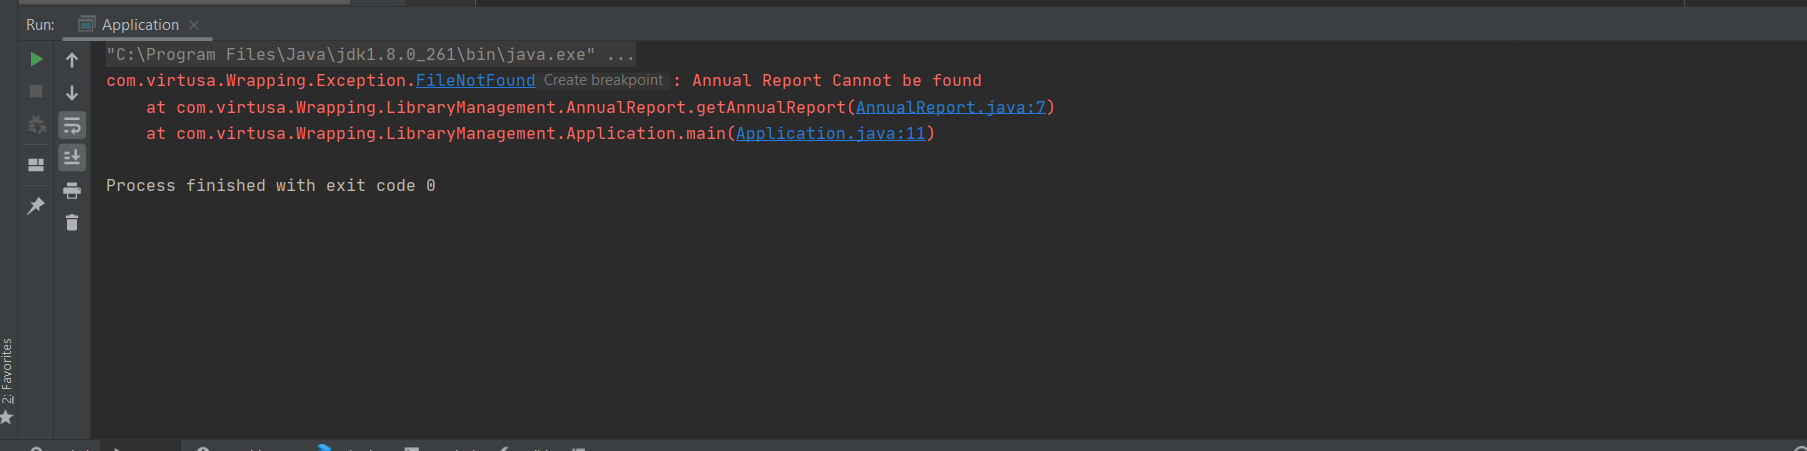
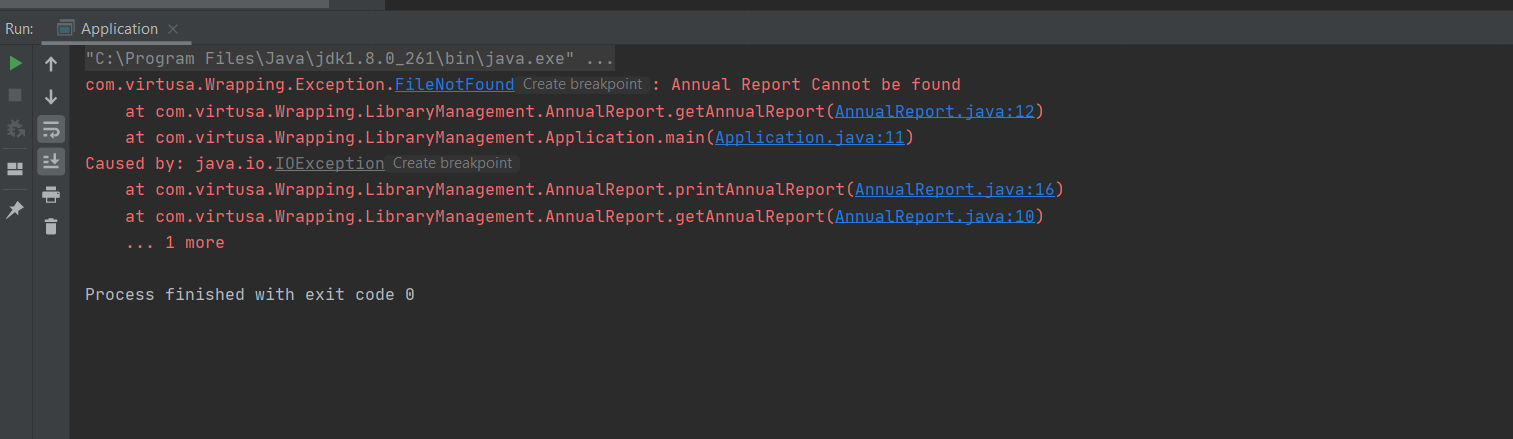
Exception Handling

diff --git a/src/com/virtusa/Wrapping/LibraryManagement/AnnualReport.java b/src/com/virtusa/Wrapping/LibraryManagement/AnnualReport.java
@@ -1,12 +1,18 @@
 package com.virtusa.Wrapping.LibraryManagement;
 import com.virtusa.Wrapping.Exception.FileNotFound;
 
+import java.io.IOException;
+
 public class AnnualReport {
+
     public static void getAnnualReport() throws FileNotFound {
         try {
-                //Implemntation
-        } catch ( FileNotFound exception ) {
-            throw new FileNotFound("Annual Report Cannot be found");
+                printAnnualReport();
+        } catch ( IOException exception ) {
+            throw new FileNotFound("Annual Report Cannot be found",exception);
         }
+    }
+    public static void printAnnualReport() throws IOException{
+        throw new IOException();
     }
 }
